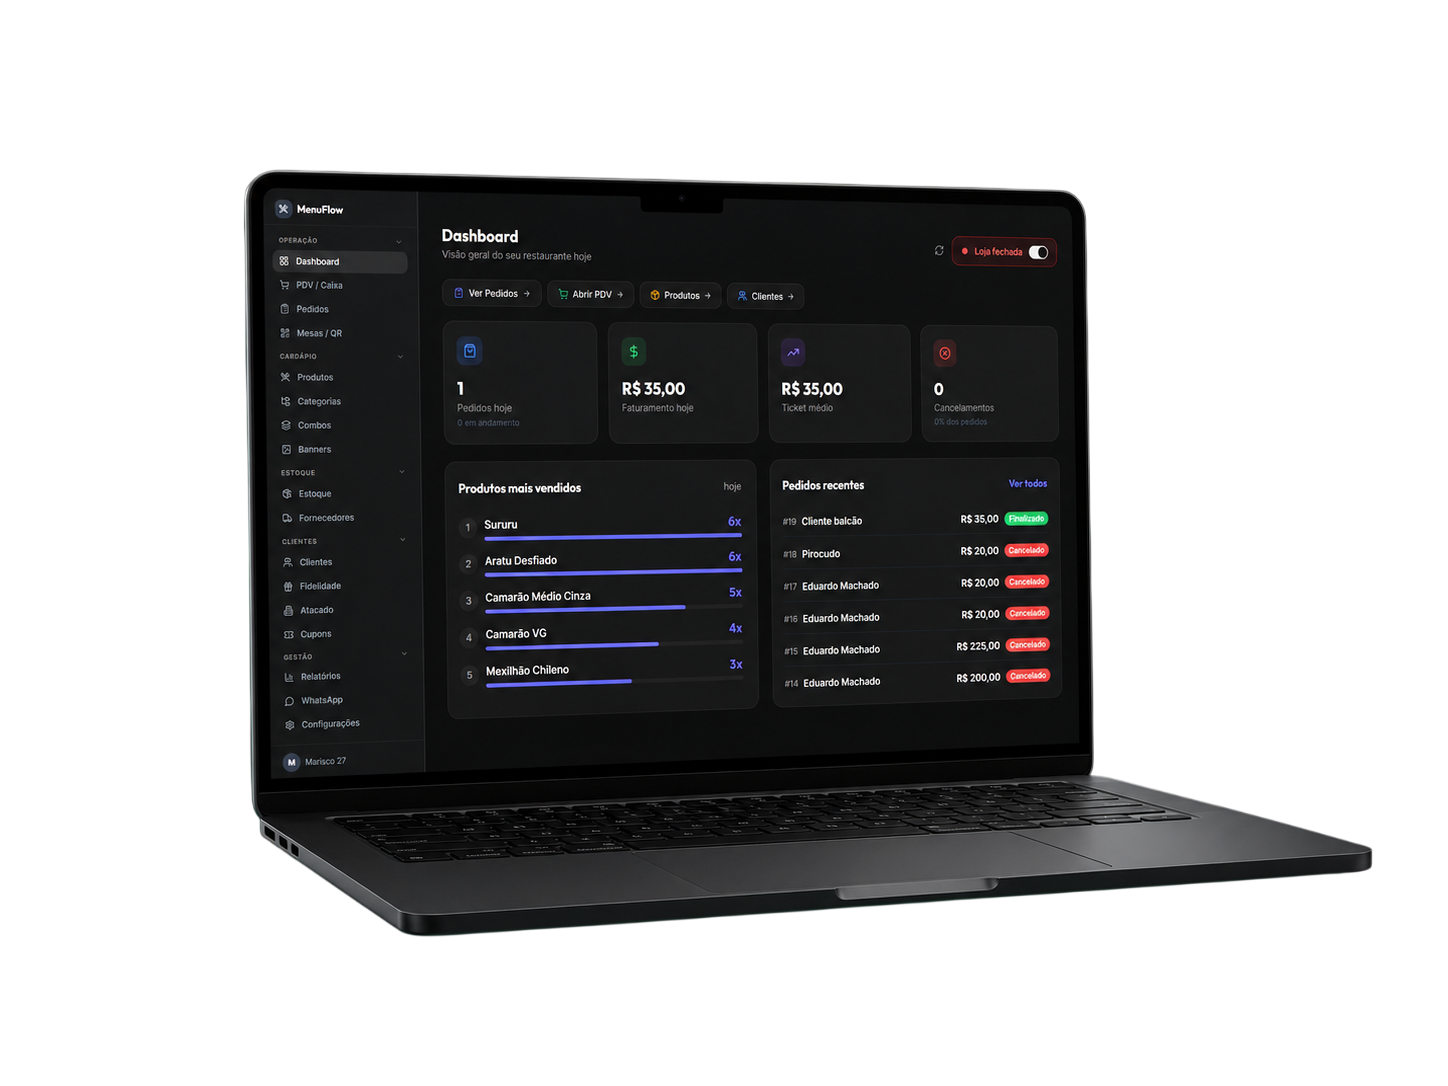
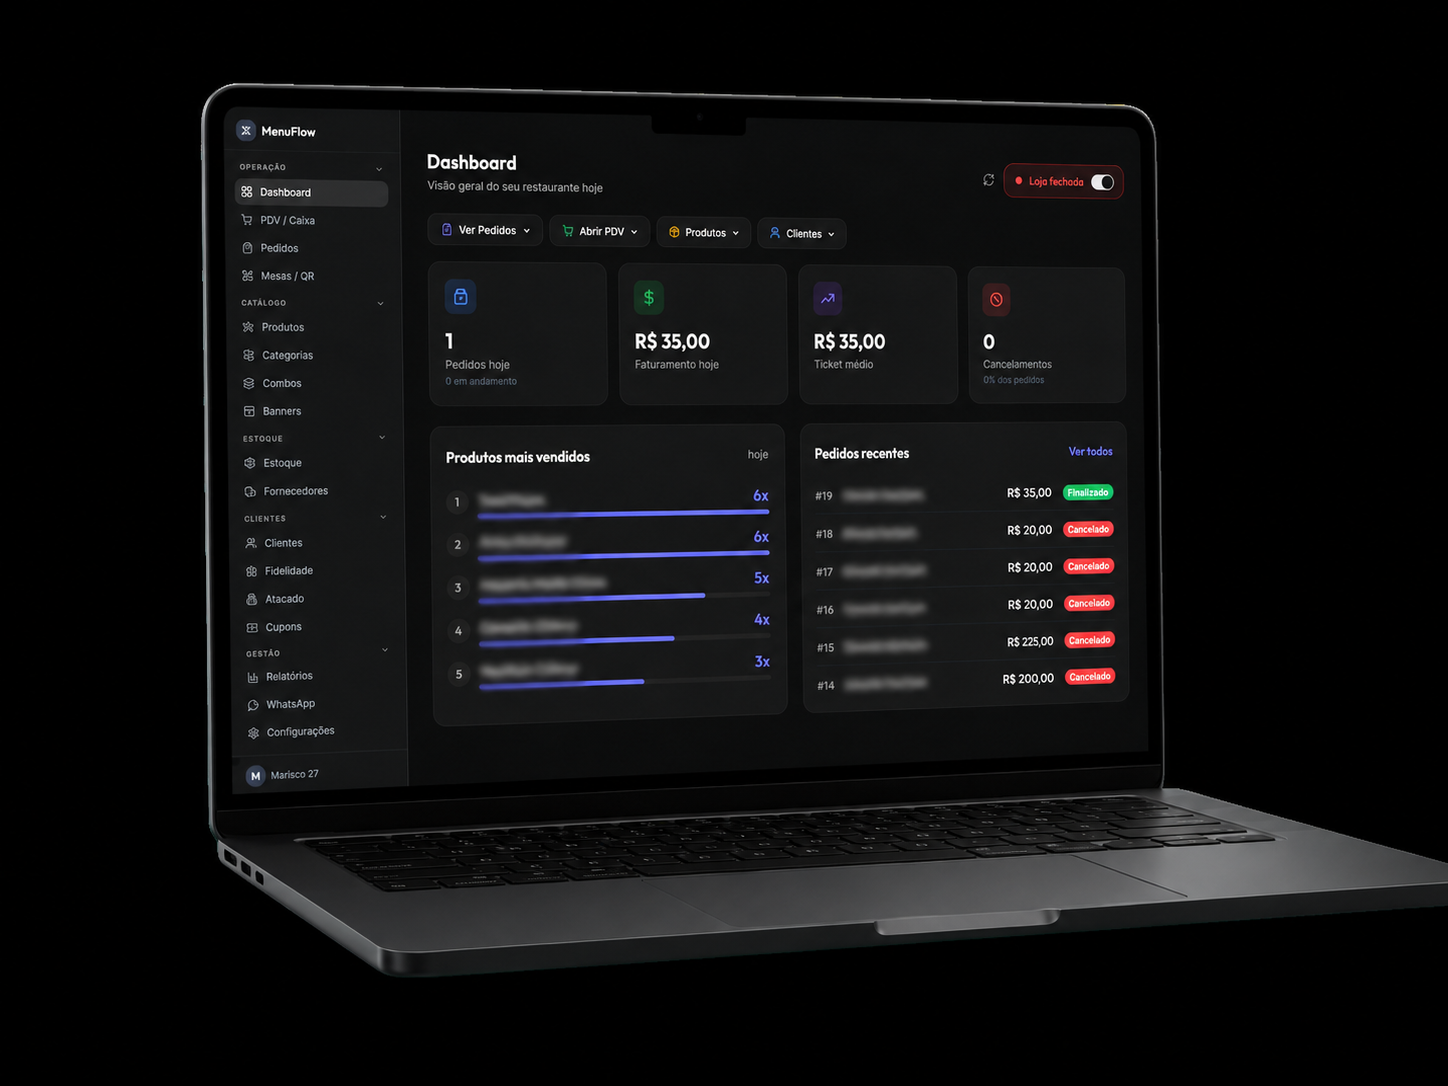
Refresh landing page visuals

diff --git a/frontend/src/pages/Landing.jsx b/frontend/src/pages/Landing.jsx
@@ -11,8 +11,6 @@ import {
   LayoutDashboard,
   Menu,
   MessageCircle,
-  PackageCheck,
-  Play,
   ShieldCheck,
   Sparkles,
   Store,
@@ -28,7 +26,7 @@ const PANEL = "rgba(255,255,255,.055)";
 const NAV = [
   { label: "Inicio", id: "inicio" },
   { label: "Recursos", id: "recursos" },
-  { label: "Demonstracao", id: "demonstracao" },
+  { label: "Telas", id: "telas" },
   { label: "FAQ", id: "faq" },
   { label: "Contato", id: "contato" },
 ];
@@ -81,6 +79,14 @@ const TRUST = [
   },
 ];
 
+const SCREENS = [
+  { title: "Dashboard", image: "/eg-screen-dashboard.png" },
+  { title: "PDV / Caixa", image: "/eg-screen-pdv.png" },
+  { title: "Pedidos", image: "/eg-screen-pedidos.png" },
+  { title: "Relatorios", image: "/eg-screen-relatorios.png" },
+  { title: "Fidelidade", image: "/eg-screen-fidelidade.png" },
+];
+
 const STEPS = [
   "Configuracao da loja, cardapio e identidade visual",
   "Treinamento rapido para equipe e operacao do painel",
@@ -130,12 +136,10 @@ export default function Landing() {
         </nav>
 
         <div className="eg-actions">
-          <button className="eg-btn eg-btn-outline" onClick={() => go("demonstracao")}>
-            Ver Demonstracao
-          </button>
-          <button className="eg-btn eg-btn-primary" onClick={() => go("contato")}>
+          <Link className="eg-btn eg-btn-primary eg-btn-strong" to="/themazuki/master?tab=register">
             Quero Meu Sistema
-          </button>
+            <ArrowRight size={19} />
+          </Link>
         </div>
 
         <button className="eg-menu-btn" onClick={() => setMobileOpen((v) => !v)} aria-label="Abrir menu">
@@ -155,15 +159,13 @@ export default function Landing() {
                 {item.label}
               </button>
             ))}
-            <button
+            <Link
               className="eg-btn eg-btn-primary"
-              onClick={() => {
-                go("contato");
-                setMobileOpen(false);
-              }}
+              to="/themazuki/master?tab=register"
+              onClick={() => setMobileOpen(false)}
             >
               Quero Meu Sistema
-            </button>
+            </Link>
           </div>
         )}
       </header>
@@ -174,7 +176,6 @@ export default function Landing() {
 
         <div className="eg-hero-content">
           <div className="eg-kicker">
-            <span />
             Sistema completo de delivery
           </div>
 
@@ -189,12 +190,10 @@ export default function Landing() {
           </p>
 
           <div className="eg-hero-buttons">
-            <button className="eg-btn eg-btn-primary eg-btn-big" onClick={() => go("contato")}>
+            <Link className="eg-btn eg-btn-primary eg-btn-big eg-btn-strong" to="/themazuki/master?tab=register">
               Quero Meu Sistema <ArrowRight size={21} />
-            </button>
-            <button className="eg-btn eg-btn-outline eg-btn-big" onClick={() => go("demonstracao")}>
-              Ver Demonstracao <Play size={19} />
-            </button>
+            </Link>
+            <span className="eg-price-pill">Oferta de lancamento: R$ 49,90/mes</span>
           </div>
 
           <div className="eg-proof-row">
@@ -239,13 +238,13 @@ export default function Landing() {
         </div>
       </section>
 
-      <section className="eg-demo" id="demonstracao">
+      <section className="eg-demo" id="telas">
         <div>
-          <span className="eg-mini-label">Demonstracao</span>
-          <h2>Veja como a EG Delivery transforma seu atendimento</h2>
+          <span className="eg-mini-label">Telas reais</span>
+          <h2>O sistema que o restaurante usa todos os dias</h2>
           <p>
-            O restaurante ganha um cardapio online profissional, uma area administrativa completa e
-            um fluxo de pedidos simples para a equipe operar todos os dias.
+            Painel, pedidos, PDV, relatorios e fidelidade em uma estrutura simples para operar,
+            acompanhar vendas e atender melhor.
           </p>
           <ul>
             {STEPS.map((step) => (
@@ -257,25 +256,13 @@ export default function Landing() {
           </ul>
         </div>
 
-        <div className="eg-demo-panel">
-          <div className="eg-demo-top">
-            <span>Pedido #1842</span>
-            <strong>Em preparo</strong>
-          </div>
-          <div className="eg-demo-line">
-            <PackageCheck size={22} />
-            <span>
-              <strong>Combo Burguer Premium</strong>
-              <small>2 itens, entrega em 42 min</small>
-            </span>
-          </div>
-          <div className="eg-demo-progress">
-            <span />
-          </div>
-          <div className="eg-demo-stats">
-            <strong>R$ 68,90</strong>
-            <small>Pagamento aprovado</small>
-          </div>
+        <div className="eg-screen-gallery">
+          {SCREENS.map((screen, index) => (
+            <figure key={screen.title} className={index === 0 ? "is-large" : ""}>
+              <img src={screen.image} alt={`Tela do EG Delivery - ${screen.title}`} loading="lazy" />
+              <figcaption>{screen.title}</figcaption>
+            </figure>
+          ))}
         </div>
       </section>
 
@@ -302,17 +289,17 @@ export default function Landing() {
           <span className="eg-mini-label">Contato</span>
           <h2>Pronto para vender com uma estrutura profissional?</h2>
           <p>
-            Solicite uma demonstracao e veja como a EG Delivery pode colocar sua operacao online com
-            mais velocidade, controle e presenca digital.
+            Crie seu cadastro e veja como a EG Delivery pode colocar sua operacao online com mais
+            velocidade, controle e presenca digital.
           </p>
         </div>
         <div className="eg-contact-actions">
-          <a className="eg-btn eg-btn-primary eg-btn-big" href="https://www.instagram.com/easygrowtth/" target="_blank" rel="noreferrer">
-            Falar com a Easy Growth <ArrowRight size={21} />
-          </a>
-          <Link className="eg-btn eg-btn-outline eg-btn-big" to="/themazuki/master">
-            Acessar Painel
+          <Link className="eg-btn eg-btn-primary eg-btn-big eg-btn-strong" to="/themazuki/master?tab=register">
+            Quero Meu Sistema <ArrowRight size={21} />
           </Link>
+          <a className="eg-btn eg-btn-outline eg-btn-big" href="https://www.instagram.com/easygrowtth/" target="_blank" rel="noreferrer">
+            Falar com a Easy Growth
+          </a>
         </div>
       </section>
 
@@ -441,6 +428,11 @@ export default function Landing() {
           box-shadow: 0 18px 44px rgba(34,227,155,.2);
         }
 
+        .eg-btn-strong {
+          min-width: 214px;
+          box-shadow: 0 18px 52px rgba(34,227,155,.35), inset 0 1px 0 rgba(255,255,255,.42);
+        }
+
         .eg-btn-outline {
           border: 1.5px solid rgba(34,227,155,.75);
           background: rgba(0,0,0,.24);
@@ -537,13 +529,6 @@ export default function Landing() {
           text-transform: uppercase;
         }
 
-        .eg-kicker span {
-          width: 40px;
-          height: 2px;
-          border-radius: 999px;
-          background: ${GREEN};
-        }
-
         .eg-hero h1 {
           max-width: 720px;
           margin: 34px 0 22px;
@@ -574,6 +559,19 @@ export default function Landing() {
           gap: 24px;
           align-items: center;
           flex-wrap: wrap;
+        }
+
+        .eg-price-pill {
+          display: inline-flex;
+          min-height: 46px;
+          align-items: center;
+          border-radius: 999px;
+          padding: 0 20px;
+          border: 1px solid rgba(34,227,155,.34);
+          background: rgba(34,227,155,.08);
+          color: rgba(255,255,255,.9);
+          font-size: 15px;
+          font-weight: 800;
         }
 
         .eg-proof-row {
@@ -749,7 +747,7 @@ export default function Landing() {
         .eg-contact {
           padding: 104px 68px;
           display: grid;
-          grid-template-columns: minmax(0, 1fr) minmax(420px, 560px);
+          grid-template-columns: minmax(360px, 520px) minmax(0, 1fr);
           gap: 64px;
           align-items: center;
           background:
@@ -783,72 +781,49 @@ export default function Landing() {
           flex: 0 0 auto;
         }
 
-        .eg-demo-panel {
-          border: 1px solid rgba(34,227,155,.24);
-          border-radius: 8px;
-          padding: 28px;
-          background: linear-gradient(145deg, rgba(255,255,255,.09), rgba(255,255,255,.035));
-          box-shadow: 0 38px 100px rgba(0,0,0,.38);
-        }
-
-        .eg-demo-top,
-        .eg-demo-line,
-        .eg-demo-stats {
-          display: flex;
-          justify-content: space-between;
-          align-items: center;
+        .eg-screen-gallery {
+          display: grid;
+          grid-template-columns: repeat(2, minmax(0, 1fr));
           gap: 16px;
+          align-items: stretch;
         }
 
-        .eg-demo-top strong {
-          color: ${GREEN};
-        }
-
-        .eg-demo-line {
-          justify-content: flex-start;
-          margin: 36px 0;
-          padding: 24px;
-          border-radius: 8px;
-          background: rgba(0,0,0,.28);
-        }
-
-        .eg-demo-line svg {
-          color: ${GREEN};
-          flex: 0 0 auto;
-        }
-
-        .eg-demo-line strong,
-        .eg-demo-line small {
-          display: block;
-        }
-
-        .eg-demo-line small,
-        .eg-demo-stats small {
-          color: rgba(255,255,255,.58);
-          margin-top: 4px;
-        }
-
-        .eg-demo-progress {
-          height: 10px;
+        .eg-screen-gallery figure {
+          position: relative;
+          min-height: 190px;
+          margin: 0;
           overflow: hidden;
-          border-radius: 999px;
-          background: rgba(255,255,255,.09);
+          border: 1px solid rgba(255,255,255,.12);
+          border-radius: 8px;
+          background: rgba(255,255,255,.05);
+          box-shadow: 0 26px 70px rgba(0,0,0,.34);
         }
 
-        .eg-demo-progress span {
-          display: block;
-          width: 72%;
+        .eg-screen-gallery figure.is-large {
+          grid-column: 1 / -1;
+          min-height: 290px;
+        }
+
+        .eg-screen-gallery img {
+          width: 100%;
           height: 100%;
-          border-radius: inherit;
-          background: linear-gradient(90deg, ${GREEN}, #83ffd0);
+          display: block;
+          object-fit: cover;
+          object-position: top left;
         }
 
-        .eg-demo-stats {
-          margin-top: 24px;
-        }
-
-        .eg-demo-stats strong {
-          font: 800 34px Outfit, sans-serif;
+        .eg-screen-gallery figcaption {
+          position: absolute;
+          left: 14px;
+          bottom: 14px;
+          border-radius: 999px;
+          padding: 8px 13px;
+          background: rgba(0,0,0,.68);
+          border: 1px solid rgba(255,255,255,.16);
+          color: #fff;
+          font-size: 13px;
+          font-weight: 800;
+          backdrop-filter: blur(10px);
         }
 
         .eg-faq-list {
@@ -1171,8 +1146,9 @@ export default function Landing() {
             min-height: auto;
           }
 
-          .eg-demo-panel {
-            padding: 20px;
+          .eg-price-pill {
+            width: 100%;
+            justify-content: center;
           }
         }
       `}</style>

diff --git a/frontend/src/pages/LoginPage.jsx b/frontend/src/pages/LoginPage.jsx
@@ -1,5 +1,5 @@
 import { useEffect, useState } from "react";
-import { useNavigate } from "react-router-dom";
+import { useLocation, useNavigate } from "react-router-dom";
 import { toast } from "sonner";
 import {
   ArrowRight,
@@ -47,8 +47,9 @@ export default function LoginPage() {
   const { user, login, register } = useAuth();
   const { brand, loading: brandLoading, hasCachedBrand } = useBrand();
   const navigate = useNavigate();
+  const location = useLocation();
   const [loading, setLoading] = useState(false);
-  const [tab, setTab] = useState("login");
+  const [tab, setTab] = useState(() => new URLSearchParams(location.search).get("tab") === "register" ? "register" : "login");
   const [showPass, setShowPass] = useState(false);
   const [email, setEmail] = useState("");
   const [password, setPassword] = useState("");
@@ -60,6 +61,12 @@ export default function LoginPage() {
   useEffect(() => {
     if (user?.role) navigate(user.role === "super_admin" ? "/super" : "/supermaster", { replace: true });
   }, [user, navigate]);
+
+  useEffect(() => {
+    const nextTab = new URLSearchParams(location.search).get("tab");
+    if (nextTab === "register") setTab("register");
+    if (nextTab === "login") setTab("login");
+  }, [location.search]);
 
   const focusInput = (event) => {
     const loginAccent = brand.login_accent_color || brand.primary_color || RED;
